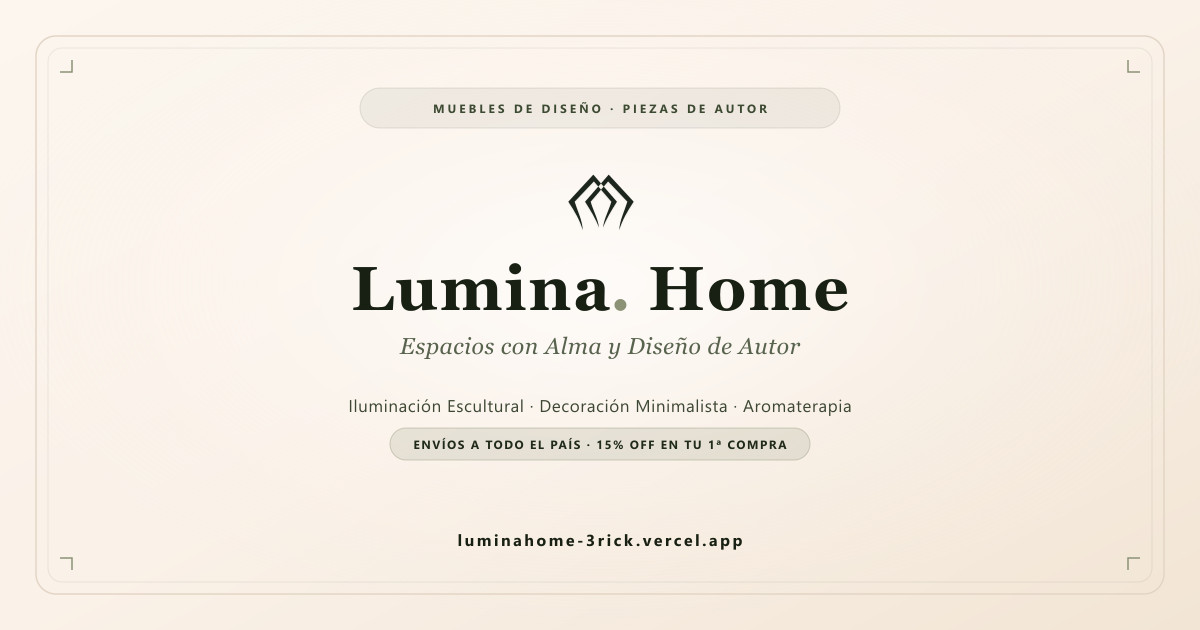
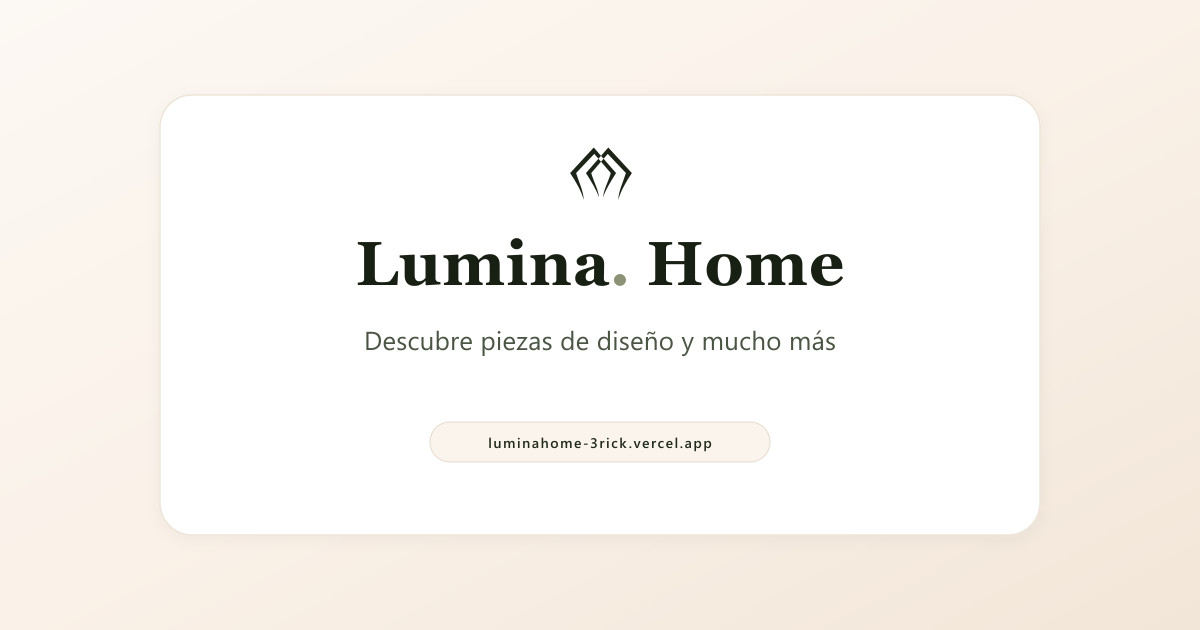
feat(og): rediseñar a tarjeta de informacion rapida limpia y actualizar descripcion a 'Descubre piezas de diseño y mucho más'

diff --git a/scripts/generate-og.js b/scripts/generate-og.js
@@ -6,100 +6,104 @@ async function createOgImage() {
   const width = 1200;
   const height = 630;
 
+  // Diseño: Tarjeta de información rápida limpia, moderna y directa
+  // Sin marcos universitarios, sin cruces ornamentales ni líneas académicas
   const svg = `
     <svg width="${width}" height="${height}" viewBox="0 0 ${width} ${height}" xmlns="http://www.w3.org/2000/svg">
       <defs>
-        <!-- Background subtle gradient: warm matte melon palette -->
-        <linearGradient id="bgGradient" x1="0%" y1="0%" x2="100%" y2="100%">
-          <stop offset="0%" stop-color="#FCF6EF" />
+        <!-- Fondo suave mate tono melón bajito brandeado Lumina -->
+        <linearGradient id="bg" x1="0%" y1="0%" x2="100%" y2="100%">
+          <stop offset="0%" stop-color="#FCF8F3" />
           <stop offset="50%" stop-color="#FAF1E8" />
-          <stop offset="100%" stop-color="#F2E5D5" />
+          <stop offset="100%" stop-color="#F2E6D8" />
         </linearGradient>
 
-        <!-- Luxury radial glow -->
-        <radialGradient id="softGlow" cx="50%" cy="45%" r="55%">
-          <stop offset="0%" stop-color="#FFFFFF" stop-opacity="0.7" />
-          <stop offset="50%" stop-color="#FFFFFF" stop-opacity="0.2" />
-          <stop offset="100%" stop-color="#FAF1E8" stop-opacity="0" />
-        </radialGradient>
-
-        <linearGradient id="goldLine" x1="0%" y1="0%" x2="100%" y2="0%">
-          <stop offset="0%" stop-color="#8C9276" stop-opacity="0" />
-          <stop offset="30%" stop-color="#8C9276" stop-opacity="0.8" />
-          <stop offset="50%" stop-color="#C5A059" stop-opacity="0.95" />
-          <stop offset="70%" stop-color="#8C9276" stop-opacity="0.8" />
-          <stop offset="100%" stop-color="#8C9276" stop-opacity="0" />
-        </linearGradient>
-
-        <filter id="subtleShadow" x="-10%" y="-10%" width="120%" height="120%">
-          <feDropShadow dx="0" dy="4" stdDeviation="6" flood-color="#242C1C" flood-opacity="0.1" />
+        <!-- Sombra moderna, sutil y flotante para la tarjeta -->
+        <filter id="cardShadow" x="-20%" y="-20%" width="140%" height="140%">
+          <feDropShadow dx="0" dy="16" stdDeviation="24" flood-color="#1A2114" flood-opacity="0.08" />
+          <feDropShadow dx="0" dy="4" stdDeviation="8" flood-color="#1A2114" flood-opacity="0.04" />
         </filter>
       </defs>
 
-      <!-- Background Base -->
-      <rect width="${width}" height="${height}" fill="url(#bgGradient)" />
-      <rect width="${width}" height="${height}" fill="url(#softGlow)" />
+      <!-- Fondo Lienzo -->
+      <rect width="${width}" height="${height}" fill="url(#bg)" />
 
-      <!-- Outer Luxury Double Inset Frame -->
-      <rect x="36" y="36" width="1128" height="558" rx="20" fill="none" stroke="#E3D5C5" stroke-width="1.5" />
-      <rect x="48" y="48" width="1104" height="534" rx="14" fill="none" stroke="#242C1C" stroke-opacity="0.08" stroke-width="1" />
-
-      <!-- Corner Ornamental Crosshairs -->
-      <path d="M 60 72 L 72 72 L 72 60" fill="none" stroke="#8C9276" stroke-width="1.5" />
-      <path d="M 1140 72 L 1128 72 L 1128 60" fill="none" stroke="#8C9276" stroke-width="1.5" />
-      <path d="M 60 558 L 72 558 L 72 570" fill="none" stroke="#8C9276" stroke-width="1.5" />
-      <path d="M 1140 558 L 1128 558 L 1128 570" fill="none" stroke="#8C9276" stroke-width="1.5" />
-
-      <!-- TOP: Positioning Micro-Pill (What We Do & Where) -->
-      <g transform="translate(600, 108)" text-anchor="middle">
-        <rect x="-240" y="-20" width="480" height="40" rx="20" fill="#242C1C" fill-opacity="0.06" stroke="#242C1C" stroke-opacity="0.12" stroke-width="1" />
-        <text x="0" y="5" font-family="system-ui, -apple-system, BlinkMacSystemFont, 'Segoe UI', Roboto, sans-serif" font-size="12" font-weight="700" letter-spacing="3" fill="#3D4A32">
-          MUEBLES DE DISEÑO · PIEZAS DE AUTOR
-        </text>
+      <!-- Tarjeta de Información Rápida Flotante -->
+      <g filter="url(#cardShadow)">
+        <rect 
+          x="160" 
+          y="95" 
+          width="880" 
+          height="440" 
+          rx="32" 
+          fill="#FFFFFF" 
+          stroke="#EDE4D8" 
+          stroke-width="1.5" 
+        />
       </g>
 
-      <!-- Decorative Divider Top -->
-      <line x1="430" y1="152" x2="770" y2="152" stroke="url(#goldLine)" stroke-width="1.5" />
-
-      <!-- CENTER: Lumina Emblem Vector Icon -->
-      <g transform="translate(565, 172) scale(0.18)" filter="url(#subtleShadow)">
+      <!-- Contenido Interior de la Tarjeta -->
+      <!-- 1. Emblema Lumina Arcos Diamante Gemelos -->
+      <g transform="translate(567, 145) scale(0.17)">
         <path
-          fill="#1E251A"
+          fill="#1C2417"
           fill-rule="evenodd"
           clip-rule="evenodd"
           d="M 157.3 14.7 L 18.5 165.0 C 53.7 217.7, 83.8 270.3, 98.5 323.0 C 96.7 270.3, 69.8 217.7, 53.5 165.0 L 160.4 52.3 L 257.5 165.0 C 244.2 213.0, 216.0 261.0, 211.5 309.0 C 227.9 261.0, 258.5 213.0, 288.5 165.0 Z M 242.7 14.7 L 381.5 165.0 C 346.3 217.7, 316.2 270.3, 301.5 323.0 C 303.3 270.3, 330.2 217.7, 346.5 165.0 L 239.6 52.3 L 142.5 165.0 C 155.8 213.0, 184.0 261.0, 188.5 309.0 C 172.1 261.0, 141.5 213.0, 111.5 165.0 Z"
         />
       </g>
 
-      <!-- Brand Name / Centered Title -->
-      <g transform="translate(600, 310)" text-anchor="middle">
-        <text x="0" y="0" font-family="Georgia, 'Times New Roman', serif" font-size="62" font-weight="bold" letter-spacing="2" fill="#182013">
+      <!-- 2. Nombre de la Marca -->
+      <g transform="translate(600, 285)" text-anchor="middle">
+        <text 
+          x="0" 
+          y="0" 
+          font-family="Georgia, 'Times New Roman', serif" 
+          font-size="62" 
+          font-weight="bold" 
+          letter-spacing="1" 
+          fill="#182013"
+        >
           Lumina<tspan fill="#8C9276">.</tspan> Home
         </text>
-        <text x="0" y="44" font-family="Georgia, 'Times New Roman', serif" font-style="italic" font-size="23" fill="#58634E" letter-spacing="0.5">
-          Espacios con Alma y Diseño de Autor
+      </g>
+
+      <!-- 3. Frase / Descripción solicitada por el usuario -->
+      <g transform="translate(600, 350)" text-anchor="middle">
+        <text 
+          x="0" 
+          y="0" 
+          font-family="system-ui, -apple-system, BlinkMacSystemFont, 'Segoe UI', Roboto, sans-serif" 
+          font-size="26" 
+          font-weight="500" 
+          letter-spacing="0.2" 
+          fill="#4A5543"
+        >
+          Descubre piezas de diseño y mucho más
         </text>
       </g>
 
-      <!-- Value Proposition / Hook -->
-      <g transform="translate(600, 412)" text-anchor="middle">
-        <text x="0" y="0" font-family="system-ui, -apple-system, BlinkMacSystemFont, 'Segoe UI', Roboto, sans-serif" font-size="17" font-weight="500" fill="#3D4733" letter-spacing="0.6">
-          Iluminación Escultural · Decoración Minimalista · Aromaterapia
-        </text>
-        <g transform="translate(0, 32)">
-          <rect x="-210" y="-16" width="420" height="32" rx="16" fill="#8C9276" fill-opacity="0.18" stroke="#8C9276" stroke-opacity="0.4" stroke-width="1" />
-          <text x="0" y="5" font-family="system-ui, -apple-system, BlinkMacSystemFont, 'Segoe UI', Roboto, sans-serif" font-size="12" font-weight="700" fill="#202A19" letter-spacing="1.5">
-            ENVÍOS A TODO EL PAÍS · 15% OFF EN TU 1ª COMPRA
-          </text>
-        </g>
-      </g>
-
-      <!-- Decorative Divider Bottom -->
-      <line x1="390" y1="506" x2="810" y2="506" stroke="url(#goldLine)" stroke-width="1" />
-
-      <!-- BOTTOM: Domain & Security Badges -->
-      <g transform="translate(600, 546)" text-anchor="middle">
-        <text x="0" y="0" font-family="system-ui, -apple-system, BlinkMacSystemFont, 'Segoe UI', Roboto, sans-serif" font-size="16" font-weight="700" letter-spacing="2.5" fill="#182013">
+      <!-- 4. Píldora moderna inferior con el dominio -->
+      <g transform="translate(600, 442)" text-anchor="middle">
+        <rect 
+          x="-170" 
+          y="-20" 
+          width="340" 
+          height="40" 
+          rx="20" 
+          fill="#FAF4EC" 
+          stroke="#E5DACD" 
+          stroke-width="1" 
+        />
+        <text 
+          x="0" 
+          y="6" 
+          font-family="system-ui, -apple-system, BlinkMacSystemFont, 'Segoe UI', Roboto, sans-serif" 
+          font-size="14" 
+          font-weight="600" 
+          letter-spacing="1.5" 
+          fill="#222B1B"
+        >
           luminahome-3rick.vercel.app
         </text>
       </g>
@@ -110,7 +114,7 @@ async function createOgImage() {
   const targetJpg = path.join(publicDir, 'og-default.jpg');
   const targetPng = path.join(publicDir, 'og-default.png');
 
-  // Generate JPEG (< 300 KB, exactly 1200x630, ultra compatible with WhatsApp crawler)
+  // Generar JPEG (< 300 KB, compatible 100% WhatsApp, 1200x630)
   const infoJpg = await sharp(Buffer.from(svg))
     .resize(width, height)
     .jpeg({ quality: 90, chromaSubsampling: '4:4:4' })
@@ -118,7 +122,6 @@ async function createOgImage() {
 
   const statsJpg = fs.statSync(targetJpg);
 
-  // Also export PNG as backup
   await sharp(Buffer.from(svg))
     .resize(width, height)
     .png({ quality: 90, compressionLevel: 8 })
@@ -126,11 +129,10 @@ async function createOgImage() {
 
   const statsPng = fs.statSync(targetPng);
 
-  console.log('✅ Generated og-default.jpg:');
-  console.log(`   Dimensions: ${infoJpg.width}x${infoJpg.height} px`);
-  console.log(`   File Size: ${(statsJpg.size / 1024).toFixed(2)} KB (Required: < 300 KB)`);
-  console.log(`   Destination: ${targetJpg}`);
-  console.log(`✅ Generated og-default.png (${(statsPng.size / 1024).toFixed(2)} KB)`);
+  console.log('✅ Tarjeta de información rápida generada:');
+  console.log(`   Dimensiones: ${infoJpg.width}x${infoJpg.height} px`);
+  console.log(`   Tamaño JPEG: ${(statsJpg.size / 1024).toFixed(2)} KB (Requisito: < 300 KB)`);
+  console.log(`   Tamaño PNG: ${(statsPng.size / 1024).toFixed(2)} KB`);
 }
 
 createOgImage().catch(console.error);

diff --git a/src/config/brands/lumina/brand.ts b/src/config/brands/lumina/brand.ts
@@ -13,7 +13,7 @@ export const luminaBrandConfig: BrandConfig = {
   shortName: 'Lumina',
   tagline: 'Espacios con Alma y Diseño de Autor',
   slogan: 'Espacios diseñados para perdurar',
-  description: 'Descubre piezas exclusivas de diseño contemporáneo, iluminación escultural, aromaterapia, cerámica artesanal y mobiliario minimalista creados para transformar tu hogar.',
+  description: 'Descubre piezas de diseño y mucho más',
   logo: {
     text: 'Lumina',
     accentDot: '.',
